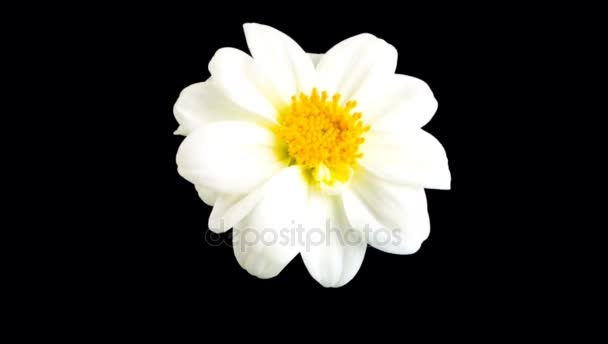
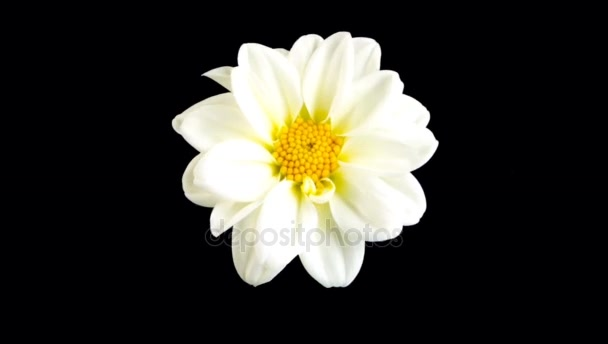
Switch to final frame of video for image, as the video plays first. Animate video opacity to 0 on video end.

diff --git a/src/components/active-video.js b/src/components/active-video.js
@@ -1,0 +1,53 @@
+'use client';
+
+import { useRef } from 'react';
+import gsap from 'gsap';
+
+import { panda } from 'styled-system/jsx';
+
+export function ActiveVideo() {
+    const videoRef = useRef();
+
+    function handleEnd() {
+        gsap.to(videoRef.current, {
+            duration: 0.1,
+            opacity: 0
+        })
+    }
+
+    // // Convert vertical FOV (70) to radians
+    // const FOV = 70 * Math.PI / 180
+    // // calculate height ratio given camera distance (1500)
+    // const heightRatio = 2 * Math.tan(FOV / 2) * 1500;
+    // // calculate height given object height (344)
+    // const height = 344 / heightRatio;
+
+    return (
+        <panda.div
+            pos={'absolute'} 
+            top={'50%'} 
+            left={'50%'}
+            translate={'auto'}
+            translateX={'-50%'}
+            translateY={'-50%'}
+            zIndex={'1000'}
+            // style={{ '--height-ratio': height }}
+            // height={'calc(var(--height-ratio) * 100vh)'}
+            // these are hardcoded in the video, but they probably should be
+            // somehow calulcated, either like above or using
+            // PerspectiveCamera.getViewSize()
+            h={'27.27vh'}
+            w={'calc(608 / 344 * 27.27vh)'}
+        >
+            <panda.video
+                ref={videoRef}
+                src='/media/white flower.mp4'
+                w={'full'}
+                h={'full'}
+                autoPlay
+                muted
+                onEnded={handleEnd}
+            />
+        </panda.div>
+    )
+}

diff --git a/app/page.js b/app/page.js
@@ -1,37 +1,11 @@
-import { panda } from "styled-system/jsx";
-import { Model } from "@/components/model";
+import { ActiveVideo } from '@/components/active-video';
+import { Model } from '@/components/model';
 
 export default function Home() {
-  // Convert vertical FOV (70) to radians
-  const FOV = 70 * Math.PI / 180
-  // calculate height ratio given camera distance (1500)
-  const heightRatio = 2 * Math.tan(FOV / 2) * 1500;
-  // calculate height given object height (344)
-  const height = 344 / heightRatio;
 
   return (
       <main>
-        <panda.div
-          pos={'absolute'} 
-          top={'50%'} 
-          left={'50%'}
-          translate={'auto'}
-          translateX={'-50%'}
-          translateY={'-50%'}
-          zIndex={'1000'}
-          opacity={0.5}
-          borderWidth={'3'}
-          borderColor={'red.900'}
-          // style={{ '--height-ratio': height }}
-          // height={'calc(var(--height-ratio) * 100vh)'}
-          // these are hardcoded in the video, but they probably should be
-          // somehow calulcated, either like above or using
-          // PerspectiveCamera.getViewSize()
-          h={'27.27vh'}
-          w={'calc(608 / 344 * 26vh)'}
-        >
-          <panda.video src='/media/white flower.mp4' w={'full'} h={'full'} />
-        </panda.div>
+        <ActiveVideo />
         <Model w={'100vw'} h={'100vh'} />
       </main>
   );

diff --git a/src/glsl/fragment.js b/src/glsl/fragment.js
@@ -4,11 +4,11 @@ export const fragment = /* glsl */ `
 
     void main() {
         // vec2 newUV = vPosition.xy/vec2(480., 820.) + vec2(0.5);
-        gl_FragColor = vec4(1., 0., 0., 1.);
+        // gl_FragColor = vec4(1., 0., 0., 1.);
         vec4 texture = texture2D(uTexture, vUv);
-        // if (texture.r < 0.1 && texture.g<0.1 && texture.b<0.1) discard;
+        if (texture.r < 0.1 && texture.g<0.1 && texture.b<0.1) discard;
         // gl_FragColor = vec4(vUv, 0., 1.);
         // gl_FragColor = vec4(1., 1., 1., 1.);
-        // gl_FragColor = texture;
+        gl_FragColor = texture;
     }
 `;

diff --git a/src/components/points.js b/src/components/points.js
@@ -60,7 +60,7 @@ export const Points = forwardRef((props, ref) => {
                 <bufferAttribute attach={'attributes-position'} args={[vertices, 3]} />
                 <bufferAttribute attach={'attributes-aCoords'} args={[positions, 2]} />
             </bufferGeometry> */}
-            <planeGeometry args={[608*1.5, 344*1.5, 608, 344]} />
+            <planeGeometry args={[608*1.665, 344*1.665, 608, 344]} />
             <shaderMaterial
               ref={shaderRef}
               extensions={{ derivatives: "#extension GL_OES_standard_derivatives : enable"}}

diff --git a/README.md b/README.md
@@ -32,8 +32,23 @@ ffmpeg -i <file-1>.mp4 -ss 1 -vframes 1 <file-1>.jpg
 This generates an error, but it seems it can be ignored. Other ways to do the
 same can be found on [StackOverflow][3].
 
+To get the last frame, it needs to be done slightly differently, because 
+some containers don't have a global KF index so ffmpeg can only seek forward
+in time. If you seek to the last second, there may not be any KF after that
+point and there will be no output. 3 is a compromise value - not too long
+but should contain a KF.
+
+This seeks to the last three seconds of the input and output all frames. But
+since `-update 1` is set, each frame will be overwritten to the same file,
+leaving only the last frame remaining. See [SuperUser][6].
+
+```bash
+ffmpeg -sseof -3 -i <file-1>.mp4 -update 1 -q:v 1 <file-1>.jpg
+```
+
 [1]: https://www.youtube.com/live/3SJIPjlSjtM?si=Ryvuod-529bwn7D_
 [2]: https://depositphotos.com
 [3]: https://stackoverflow.com/questions/4425413/how-to-extract-the-1st-frame-and-restore-as-an-image-with-ffmpeg
 [4]: https://react-postprocessing.docs.pmnd.rs/effects/bloom#example
 [5]: https://www.froyok.fr/blog/2021-12-ue4-custom-bloom/
+[6]: https://superuser.com/questions/1448665/ffmpeg-how-to-get-last-frame-from-a-video
